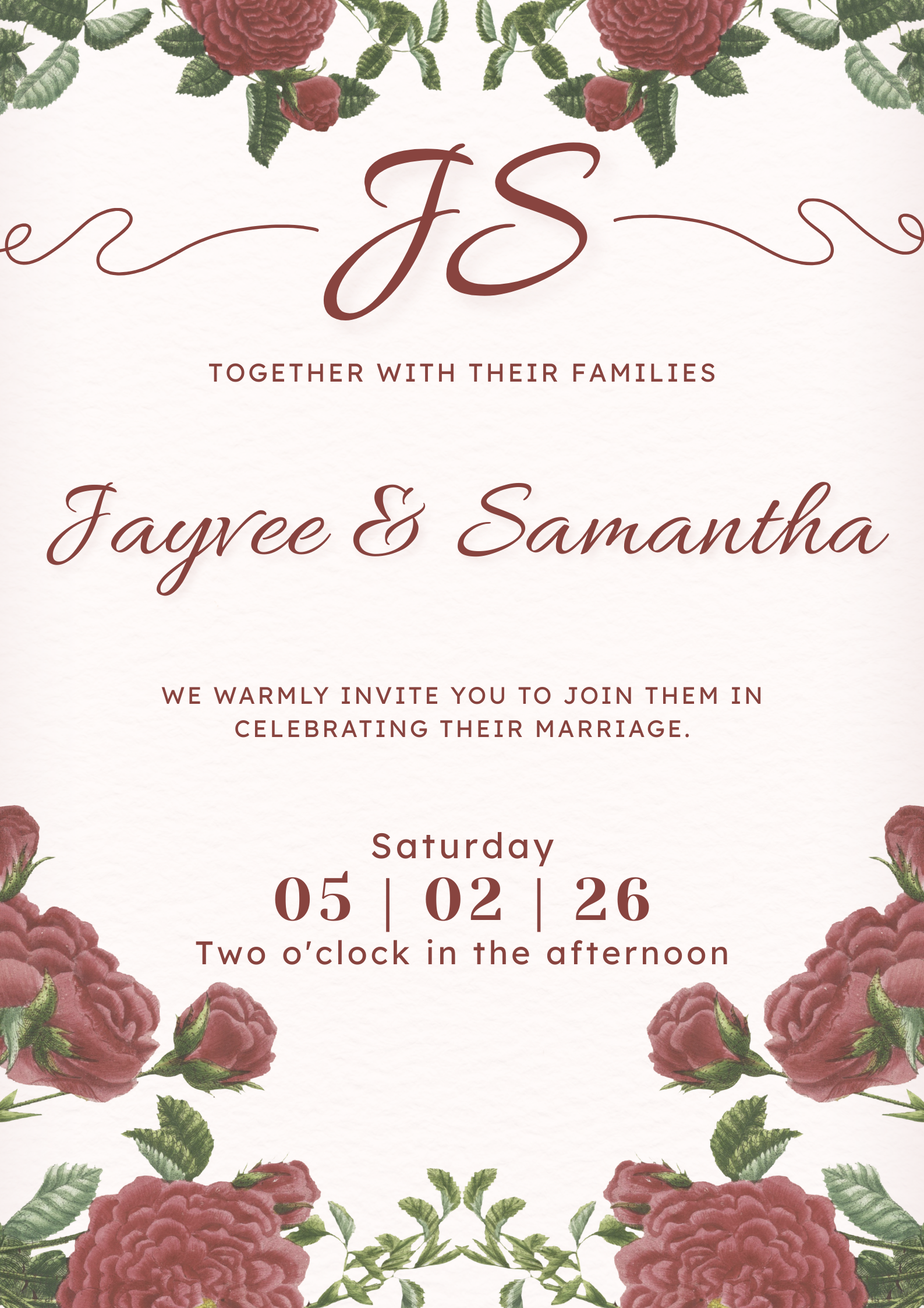
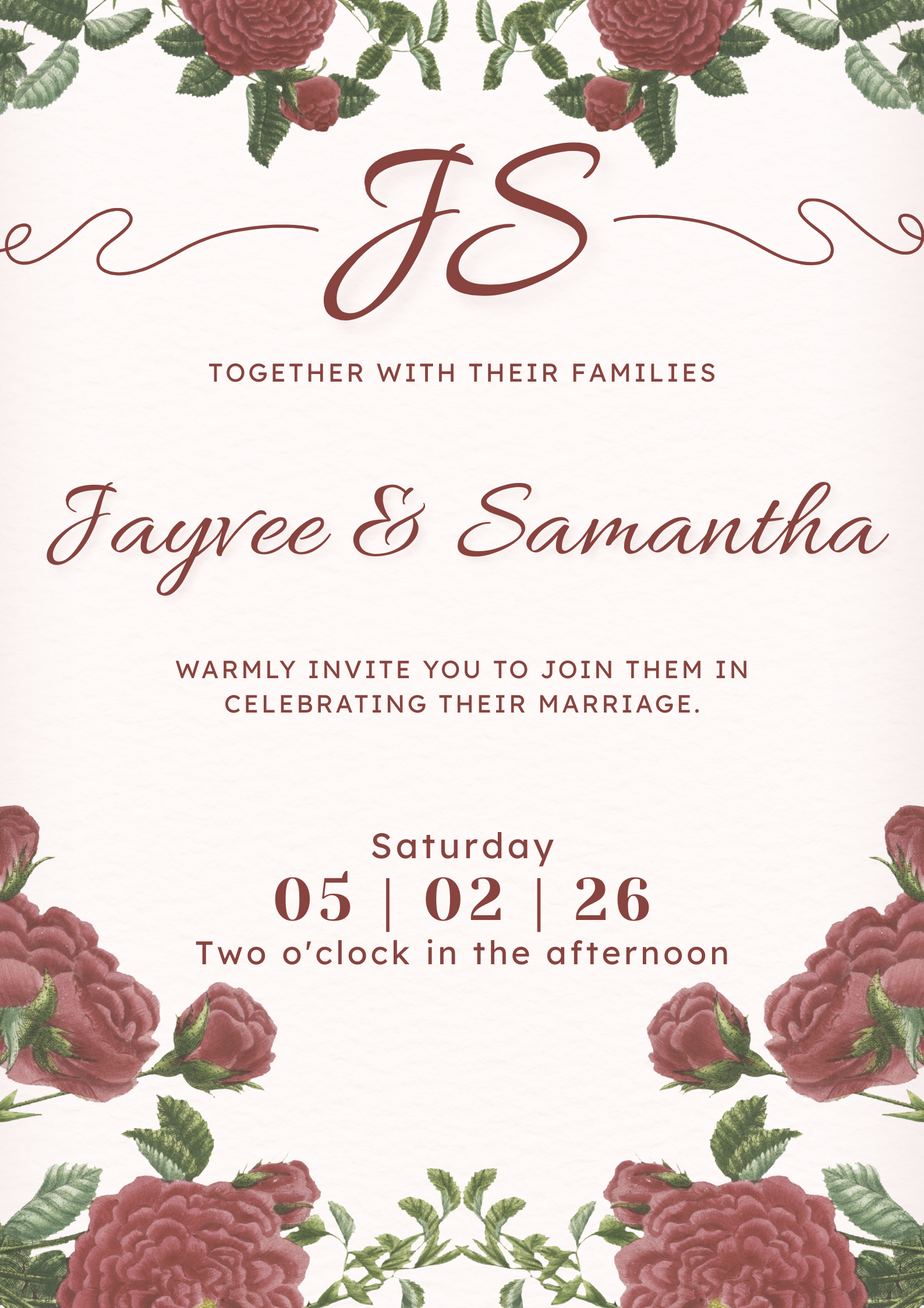
Add files via upload

Changed region(s): [[0.1853, 0.4989, 0.8028, 0.5612]]

diff --git a/index.html b/index.html
@@ -51,10 +51,10 @@
         <!-- Image Slideshow Separator 1 -->
         <div class="slideshow-separator fade-in">
             <div class="slideshow" data-slideshow="1">
-                <img src="https://i.ibb.co/DHYLRYN8/DSC08705-28.jpg" alt="Decorative" class="slide active">
+                <img src="https://i.ibb.co/LhtH36p5/Invitation-29.jpg" alt="Decorative" class="slide active">
                 <img src="https://i.ibb.co/v6r1bJkG/DSC08741-36.jpg" alt="Decorative" class="slide">
-                <img src="https://i.ibb.co/7J96ZSs6/DSC08714-31.jpg" alt="Decorative" class="slide">
-                <img src="https://i.ibb.co/chLD0LK8/DSC06496-4.jpg" alt="Decorative" class="slide">
+                <img src="https://i.ibb.co/sdC6D0Lg/DSC06512-13.jpg" alt="Decorative" class="slide">
+                <img src="https://i.ibb.co/gZsyjNwk/Invitation-6.jpg" alt="Decorative" class="slide">
             </div>
         </div>
 
@@ -119,10 +119,10 @@
         <!-- Image Slideshow Separator 2 -->
         <div class="slideshow-separator fade-in">
             <div class="slideshow" data-slideshow="2">
-                <img src="https://i.ibb.co/sdC6D0Lg/DSC06512-13.jpg" alt="Decorative" class="slide active">
-                <img src="https://i.ibb.co/fdGVPcfm/DSC06503-9.jpg" alt="Decorative" class="slide">
-                <img src="https://i.ibb.co/WvRMGYY4/DSC06535-8.jpg" alt="Decorative" class="slide">
-                <img src="https://i.ibb.co/3msnXfFM/DSC06375-6.jpg" alt="Decorative" class="slide">
+                <img src="https://i.ibb.co/PGydwgyv/DSC08455-30.jpg" alt="Decorative" class="slide active">
+                <img src="https://i.ibb.co/W4Q2tdgp/Invitation-5.jpg" alt="Decorative" class="slide">
+                <img src="https://i.ibb.co/r9Z7TdS/Invitation-3.jpg" alt="Decorative" class="slide">
+                <img src="https://i.ibb.co/Z6XYjTns/DSC06153-16.jpg" alt="Decorative" class="slide">
             </div>
         </div>
 
@@ -143,7 +143,7 @@
                 </p>
                 <div class="reminder-box">
                     <p class="reminder-text">
-                        If you won't be able to make it, please let us know by <strong>April 15, 2026</strong> so we can adjust our plans with love.
+                        If you won't be able to make it, please let us know so we can adjust our plans with love.
                     </p>
                 </div>
                 <div class="contact-info">
@@ -155,10 +155,10 @@
         <!-- Image Slideshow Separator 3 -->
         <div class="slideshow-separator fade-in">
             <div class="slideshow" data-slideshow="3">
-                <img src="https://i.ibb.co/Kx2dS7fj/DSC08407-34.jpg" alt="Decorative" class="slide active">
-                <img src="https://i.ibb.co/wrQt3HPy/DSC08439-38.jpg" alt="Decorative" class="slide">
-                <img src="https://i.ibb.co/PGydwgyv/DSC08455-30.jpg" alt="Decorative" class="slide">
-                <img src="https://i.ibb.co/JRcQVs4K/DSC06373-5.jpg" alt="Decorative" class="slide">
+                <img src="https://i.ibb.co/JRcQVs4K/DSC06373-5.jpg" alt="Decorative" class="slide active">
+                <img src="https://i.ibb.co/0yZpWVc2/Invitation-4.jpg" alt="Decorative" class="slide">
+                <img src="https://i.ibb.co/pBmLyfc8/Invitation-1.jpg" alt="Decorative" class="slide">
+                <img src="https://i.ibb.co/3msnXfFM/DSC06375-6.jpg" alt="Decorative" class="slide">
             </div>
         </div>
 
@@ -190,7 +190,8 @@
                         <span class="faq-toggle">+</span>
                     </div>
                     <div class="faq-answer">
-                        <p>Yes, self-parking is available near the venue. You may park with ease and join us for the celebration.</p>
+                        <p>Yes, parking is available near the venue. Parking attendants will be on-site to assist you at both the Kingdom Hall and the reception. You may park with ease and join us for the celebration.</p>
+                        <img src="section/parking.png" alt="Parking area" style="width:100%; border-radius:8px; margin-top:10px;">
                     </div>
                 </div>
                 <div class="faq-item">
@@ -220,7 +221,7 @@
                         <span class="faq-toggle">+</span>
                     </div>
                     <div class="faq-answer">
-                        <p>Our ushers will warmly welcome you and guide you to your reserved seat.</p>
+                        <p>Our ushers and usherettes will warmly welcome you and guide you to your reserved seat.</p>
                     </div>
                 </div>
                 <div class="faq-item">
@@ -240,45 +241,26 @@
         <section class="gallery-section fade-in">
             <h2 class="section-title">Moments That Led Us Here</h2>
             <div class="gallery-grid" id="gallery-grid">
-                <div class="gallery-item"><img src="https://i.ibb.co/Jw7wS6N0/DSC05967-3.jpg" alt="Jayvee & Samantha" loading="lazy"></div>
-                <div class="gallery-item"><img src="https://i.ibb.co/S7WNMsKZ/DSC06052-21.jpg" alt="Jayvee & Samantha" loading="lazy"></div>
-                <div class="gallery-item"><img src="https://i.ibb.co/wFqW1TMc/DSC06103-10.jpg" alt="Jayvee & Samantha" loading="lazy"></div>
-                <div class="gallery-item"><img src="https://i.ibb.co/NdK53cXZ/DSC06112-11.jpg" alt="Jayvee & Samantha" loading="lazy"></div>
-                <div class="gallery-item"><img src="https://i.ibb.co/Z6XYjTns/DSC06153-16.jpg" alt="Jayvee & Samantha" loading="lazy"></div>
-                <div class="gallery-item"><img src="https://i.ibb.co/847ZKY5D/DSC06170-17.jpg" alt="Jayvee & Samantha" loading="lazy"></div>
-                <div class="gallery-item hidden"><img src="https://i.ibb.co/rRGVSTY2/DSC06184-22.jpg" alt="Jayvee & Samantha" loading="lazy"></div>
-                <div class="gallery-item hidden"><img src="https://i.ibb.co/kgKhqRvp/DSC06252-12.jpg" alt="Jayvee & Samantha" loading="lazy"></div>
-                <div class="gallery-item hidden"><img src="https://i.ibb.co/RTYg2wTC/DSC06302-1.jpg" alt="Jayvee & Samantha" loading="lazy"></div>
-                <div class="gallery-item hidden"><img src="https://i.ibb.co/JRcQVs4K/DSC06373-5.jpg" alt="Jayvee & Samantha" loading="lazy"></div>
-                <div class="gallery-item hidden"><img src="https://i.ibb.co/3msnXfFM/DSC06375-6.jpg" alt="Jayvee & Samantha" loading="lazy"></div>
-                <div class="gallery-item hidden"><img src="https://i.ibb.co/jZ4vvxw3/DSC06378-7.jpg" alt="Jayvee & Samantha" loading="lazy"></div>
-                <div class="gallery-item hidden"><img src="https://i.ibb.co/yB4fwLrd/DSC06433-18.jpg" alt="Jayvee & Samantha" loading="lazy"></div>
-                <div class="gallery-item hidden"><img src="https://i.ibb.co/4wy1bKHq/DSC06435-19.jpg" alt="Jayvee & Samantha" loading="lazy"></div>
-                <div class="gallery-item hidden"><img src="https://i.ibb.co/vvB39J4T/DSC06439-20.jpg" alt="Jayvee & Samantha" loading="lazy"></div>
-                <div class="gallery-item hidden"><img src="https://i.ibb.co/YF17DsKZ/DSC06447-23.jpg" alt="Jayvee & Samantha" loading="lazy"></div>
-                <div class="gallery-item hidden"><img src="https://i.ibb.co/tpz8vbpL/DSC06453-24.jpg" alt="Jayvee & Samantha" loading="lazy"></div>
-                <div class="gallery-item hidden"><img src="https://i.ibb.co/v4zM4kMn/DSC06458-25.jpg" alt="Jayvee & Samantha" loading="lazy"></div>
-                <div class="gallery-item hidden"><img src="https://i.ibb.co/hJZ8yvzF/DSC06459-26.jpg" alt="Jayvee & Samantha" loading="lazy"></div>
-                <div class="gallery-item hidden"><img src="https://i.ibb.co/p6frT8vM/DSC06461-27.jpg" alt="Jayvee & Samantha" loading="lazy"></div>
-                <div class="gallery-item hidden"><img src="https://i.ibb.co/chLD0LK8/DSC06496-4.jpg" alt="Jayvee & Samantha" loading="lazy"></div>
-                <div class="gallery-item hidden"><img src="https://i.ibb.co/fdGVPcfm/DSC06503-9.jpg" alt="Jayvee & Samantha" loading="lazy"></div>
-                <div class="gallery-item hidden"><img src="https://i.ibb.co/sdC6D0Lg/DSC06512-13.jpg" alt="Jayvee & Samantha" loading="lazy"></div>
-                <div class="gallery-item hidden"><img src="https://i.ibb.co/YBKm3zHm/DSC06515-14.jpg" alt="Jayvee & Samantha" loading="lazy"></div>
-                <div class="gallery-item hidden"><img src="https://i.ibb.co/WvRMGYY4/DSC06535-8.jpg" alt="Jayvee & Samantha" loading="lazy"></div>
-                <div class="gallery-item hidden"><img src="https://i.ibb.co/Kx2dS7fj/DSC08407-34.jpg" alt="Jayvee & Samantha" loading="lazy"></div>
-                <div class="gallery-item hidden"><img src="https://i.ibb.co/wrQt3HPy/DSC08439-38.jpg" alt="Jayvee & Samantha" loading="lazy"></div>
-                <div class="gallery-item hidden"><img src="https://i.ibb.co/PGydwgyv/DSC08455-30.jpg" alt="Jayvee & Samantha" loading="lazy"></div>
-                <div class="gallery-item hidden"><img src="https://i.ibb.co/xSHWp37y/DSC08485-41.jpg" alt="Jayvee & Samantha" loading="lazy"></div>
-                <div class="gallery-item hidden"><img src="https://i.ibb.co/VYSyPz0p/DSC08497-29.jpg" alt="Jayvee & Samantha" loading="lazy"></div>
-                <div class="gallery-item hidden"><img src="https://i.ibb.co/cSNtqPDk/DSC08531-37.jpg" alt="Jayvee & Samantha" loading="lazy"></div>
-                <div class="gallery-item hidden"><img src="https://i.ibb.co/PZ0GLvBJ/DSC08603-32.jpg" alt="Jayvee & Samantha" loading="lazy"></div>
-                <div class="gallery-item hidden"><img src="https://i.ibb.co/mF96txk1/DSC08632-39.jpg" alt="Jayvee & Samantha" loading="lazy"></div>
-                <div class="gallery-item hidden"><img src="https://i.ibb.co/HL56pPch/DSC08634-40.jpg" alt="Jayvee & Samantha" loading="lazy"></div>
-                <div class="gallery-item hidden"><img src="https://i.ibb.co/KccwthKp/DSC08695-35.jpg" alt="Jayvee & Samantha" loading="lazy"></div>
-                <div class="gallery-item hidden"><img src="https://i.ibb.co/DHYLRYN8/DSC08705-28.jpg" alt="Jayvee & Samantha" loading="lazy"></div>
-                <div class="gallery-item hidden"><img src="https://i.ibb.co/7J96ZSs6/DSC08714-31.jpg" alt="Jayvee & Samantha" loading="lazy"></div>
-                <div class="gallery-item hidden"><img src="https://i.ibb.co/BV6WGsT1/DSC08715-33.jpg" alt="Jayvee & Samantha" loading="lazy"></div>
-                <div class="gallery-item hidden"><img src="https://i.ibb.co/v6r1bJkG/DSC08741-36.jpg" alt="Jayvee & Samantha" loading="lazy"></div>
+                <div class="gallery-item"><img src="https://i.ibb.co/fdvXgfjG/Invitation-31.jpg" alt="Jayvee & Samantha" loading="lazy"></div>
+                <div class="gallery-item"><img src="https://i.ibb.co/TMHLdZmf/Invitation-23.jpg" alt="Jayvee & Samantha" loading="lazy"></div>
+                <div class="gallery-item"><img src="https://i.ibb.co/KzVgcc6d/Invitation-24.jpg" alt="Jayvee & Samantha" loading="lazy"></div>
+                <div class="gallery-item"><img src="https://i.ibb.co/MkwCjvzm/Invitation-21.jpg" alt="Jayvee & Samantha" loading="lazy"></div>
+                <div class="gallery-item"><img src="https://i.ibb.co/MywgSdS1/Invitation-22.jpg" alt="Jayvee & Samantha" loading="lazy"></div>
+                <div class="gallery-item"><img src="https://i.ibb.co/9C9422c/Invitation-20.jpg" alt="Jayvee & Samantha" loading="lazy"></div>
+                <div class="gallery-item hidden"><img src="https://i.ibb.co/zTmgVvtb/Invitation-28.jpg" alt="Jayvee & Samantha" loading="lazy"></div>
+                <div class="gallery-item hidden"><img src="https://i.ibb.co/wNYknmLF/Invitation-27.jpg" alt="Jayvee & Samantha" loading="lazy"></div>
+                <div class="gallery-item hidden"><img src="https://i.ibb.co/cSDNWsbS/Invitation-18.jpg" alt="Jayvee & Samantha" loading="lazy"></div>
+                <div class="gallery-item hidden"><img src="https://i.ibb.co/XrNpjcqD/Invitation-19.jpg" alt="Jayvee & Samantha" loading="lazy"></div>
+                <div class="gallery-item hidden"><img src="https://i.ibb.co/5hD8kvgx/Invitation-25.jpg" alt="Jayvee & Samantha" loading="lazy"></div>
+                <div class="gallery-item hidden"><img src="https://i.ibb.co/PZjX3MKN/Messenger-creation-748-A4-B0-E-7-A9-C-42-AC-AD21-4-E5-CEB412-BF3.jpg" alt="Jayvee & Samantha" loading="lazy"></div>
+                <div class="gallery-item hidden"><img src="https://i.ibb.co/NnsGzxMs/DSCF4108.jpg" alt="Jayvee & Samantha" loading="lazy"></div>
+                <div class="gallery-item hidden"><img src="https://i.ibb.co/ynK0gWmj/Invitation-12.jpg" alt="Jayvee & Samantha" loading="lazy"></div>
+                <div class="gallery-item hidden"><img src="https://i.ibb.co/JWwpb3Yv/Invitation-13.jpg" alt="Jayvee & Samantha" loading="lazy"></div>
+                <div class="gallery-item hidden"><img src="https://i.ibb.co/rqPT4wL/Invitation-16.jpg" alt="Jayvee & Samantha" loading="lazy"></div>
+                <div class="gallery-item hidden"><img src="https://i.ibb.co/C5qK1szN/Invitation-17.jpg" alt="Jayvee & Samantha" loading="lazy"></div>
+                <div class="gallery-item hidden"><img src="https://i.ibb.co/7Jtx2Mjv/Invitation-32.jpg" alt="Jayvee & Samantha" loading="lazy"></div>
+                <div class="gallery-item hidden"><img src="https://i.ibb.co/P8Q4s32/Invitation-9.jpg" alt="Jayvee & Samantha" loading="lazy"></div>
+                <div class="gallery-item hidden"><img src="https://i.ibb.co/Y7XX0dgN/Invitation-10.jpg" alt="Jayvee & Samantha" loading="lazy"></div>
             </div>
             <button class="gallery-toggle-btn" id="gallery-toggle-btn" onclick="toggleGallery()">
                 <span>Show More Photos</span>
@@ -289,10 +271,10 @@
         <!-- Image Slideshow Separator 4 -->
         <div class="slideshow-separator fade-in">
             <div class="slideshow" data-slideshow="4">
-                <img src="https://i.ibb.co/wFqW1TMc/DSC06103-10.jpg" alt="Decorative" class="slide active">
-                <img src="https://i.ibb.co/jZ4vvxw3/DSC06378-7.jpg" alt="Decorative" class="slide">
-                <img src="https://i.ibb.co/VYSyPz0p/DSC08497-29.jpg" alt="Decorative" class="slide">
-                <img src="https://i.ibb.co/cSNtqPDk/DSC08531-37.jpg" alt="Decorative" class="slide">
+                <img src="https://i.ibb.co/rfZGp2LC/1772873194237.jpg" alt="Decorative" class="slide active">
+                <img src="https://i.ibb.co/FLLfqTHJ/1772873194261.jpg" alt="Decorative" class="slide">
+                <img src="https://i.ibb.co/jPcprcRD/1772873194216.jpg" alt="Decorative" class="slide">
+                <img src="https://i.ibb.co/s9JTx29N/1772873194226.jpg" alt="Decorative" class="slide">
             </div>
         </div>
 
